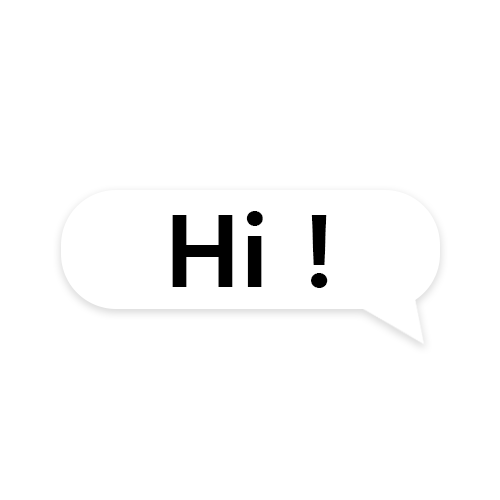
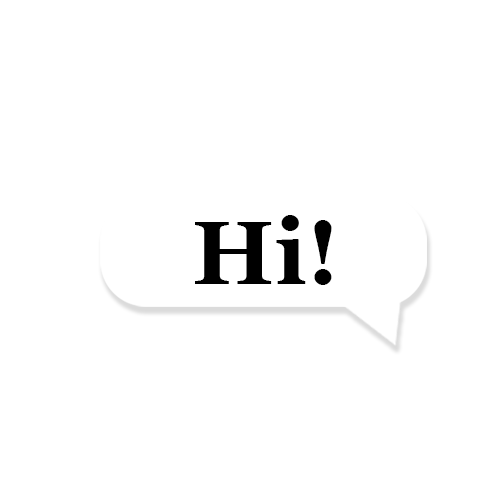
포트폴리오

Changed region(s): [[0.18, 0.42, 0.69, 0.63], [0.69, 0.48, 0.87, 0.72]]

diff --git a/html/portfoilo_2.html b/html/portfoilo_2.html
@@ -122,7 +122,7 @@
                         <h2>Contact</h2>
                         <div class="contact_1">
                             <p>010-8610-2041</p>
-                            <p>woozu5959@naver.com</p>
+                            <p class="font">woozu5959@naver.com</p>
                         </div>
                     </div>
                     <div class="edu">
@@ -191,7 +191,8 @@
                             <div class="page">
                                 <h2>Page</h2>
                                 <div class="page_1">
-                                    <p>Main + Sub (제작중)</p>
+                                    <p>Main + Sub</p>
+                                    <p class="font">(제작중)</p>
                                 </div>
                             </div>
                             <div class="tool">
@@ -205,10 +206,10 @@
                                     <!--소스 파악해서 정확하게 뭐 사용했는데 작성하기-->
                                 </div>
                             </div>
-                            <button class="btn btn_color"  type="button">
+                            <button class="btn btn_color"  onclick="window.open('https://www.figma.com/file/dBQ8xh7YiocAA0Mwe5X9iM/dokdo-site?node-id=0%3A1&t=VPZsr9GXAxnfmwRx-0')" type="button">
                                 PROTOTYPE
                             </button>
-                            <button class="btn btn_color" onclick= "window.open('https://woozu59.github.io/cobi_ro/html/dokdo.html')" type="button">
+                            <button class="btn btn_color" onclick="window.open('https://woozu59.github.io/cobi_ro/html/dokdo.html')" type="button">
                                 PUBLISHING
                             </button>
                         </div>
@@ -246,11 +247,11 @@
                         </div>
                     </div>
                     <div class="md_bt">
-                        <a href="#" class="figma">
+                        <a href="https://www.figma.com/file/dBQ8xh7YiocAA0Mwe5X9iM/dokdo-site?node-id=0%3A1&t=VPZsr9GXAxnfmwRx-0" class="figma" target="_blank">
                             <img src="../img/icon/figma.svg" class="figma_img" alt="피그마">
                             <p>Figma</p>
                         </a>
-                        <a href="#" class="mobile">
+                        <a href="https://woozu59.github.io/cobi_ro/html/dokdo.html" class="mobile" target="_blank">
                             <img src="../img/icon/mobile-screen-button-solid.svg" class="mobile_img" alt="모바일버전">
                             <p>Publishing</p>
                         </a>
@@ -301,7 +302,7 @@
                                     <p>Javascript</p>
                                 </div>
                             </div>
-                            <button class="btn btn_color" type="button">
+                            <button class="btn btn_color" onclick="window.open('https://www.figma.com/file/J7OVs8a6AmSncxwCajcPnG/Untitled?t=VPZsr9GXAxnfmwRx-0')" type="button">
                                 PROTOTYPE
                             </button>
                             <button class="btn btn_color" onclick="window.open('https://woozu59.github.io/cobi_ro/html/lush.html')" type="button">
@@ -339,11 +340,11 @@
                         </div>
                     </div>
                     <div class="md_bt">
-                        <a href="#" class="figma">
+                        <a href="https://www.figma.com/file/J7OVs8a6AmSncxwCajcPnG/Untitled?t=VPZsr9GXAxnfmwRx-0" class="figma" target="_blank">
                             <img src="../img/icon/figma.svg" class="figma_img" alt="피그마">
                             <p>Figma</p>
                         </a>
-                        <a href="#" class="mobile">
+                        <a href="https://woozu59.github.io/cobi_ro/html/lush.html" class="mobile" target="_blank">
                             <img src="../img/icon/mobile-screen-button-solid.svg" class="mobile_img" alt="모바일버전">
                             <p>Publishing</p>
                         </a>

diff --git a/css/portfolio2.css b/css/portfolio2.css
@@ -420,7 +420,10 @@ h1.tt_empty {
 }
 .contact_1 p, .edu_1 p, .licen_1 p, ul.skill_1 p {font-size: 1.2rem;}
 .contact_1 p, .edu_1 p, .licen_1 p{margin: 0 0 10px 0;}
-
+.contact_1 .font {
+    font-family: var(--english-font);
+    font-weight: 600;
+}
 ul.skill_1 {
     font-family: var(--english-font);
     display: flex;
@@ -495,6 +498,7 @@ img.pc {
 .inform {
     width: 60%;
     margin-left: 2%;
+    color: #313131;
 }
 .inform h1 {
     text-align: center;
@@ -515,11 +519,19 @@ ul.inform_hashtag {
     margin: 30px 0 0 0;
 }
 
+
 .type h2, .page h2, .tool h2{
     margin-right: 20px;
     font-family: var(--english-font);
 }
-.type_1 p, .page_1 p, .tool_1 p{font-size: 1.2rem;}
+.page_1 {display: flex;}
+.type_1 p, .page_1 p, .tool_1 p{
+    font-size: 1.2rem;
+    font-weight: 600;
+}
+
+.page_1 p{font-family: var(--english-font);}
+.page_1 .font{font-family: 'Noto Sans KR', sans-serif;}
 
 .tool_1{
     display: flex;
@@ -617,10 +629,10 @@ footer .memoji {
     
 }
 .speech_bubble img.hand{
-    width: 50px;
-    height: 50px;
+    width: 45px;
+    height: 45px;
     position: relative;
-    top: 37%;
+    top: 35%;
     left: -36%;
     transform-origin: bottom right;
     animation: shake 1s 0.5s infinite;

diff --git a/css/portfoilomb.css b/css/portfoilomb.css
@@ -1,6 +1,8 @@
 @charset "UTF-8";
 
-body{min-width: 320px;}
+body{
+    min-width: 320px;
+}
 
 header {height: 50px;}
 header.on {height: 50px;}
@@ -54,7 +56,12 @@ i{font-size: 25px;}
 
 
 /*page_1st*/
-.home > img {top: 270px;}
+.home > img {
+    top: 270px;
+    width: 50%;
+    height: 20%;
+    left: 0;
+}
 
 .text_wrap.bar {min-width: 320px;}
 .text_wrap h2{font-size: 1.5rem;}
@@ -116,7 +123,7 @@ ul.skill_1 {
 }
 ul.skill_1 li {
     margin-bottom: 2%;
-    font-size: 1rem;
+    font-size: 0.9rem;
 }
 .about_right button {display: none;}
 
@@ -192,6 +199,7 @@ ul.inform_hashtag {
     font-family: var(--english-font);
     left: 50%;
     transform: translate(-50%,-50%);
+    color: #313131;
 }
 .md_title {
     width: 100%;
@@ -254,7 +262,7 @@ ul.tool_list li{font-size: 0.9rem;}
 .figma > p,
 .mobile > p {
     height: 100%;
-    line-height: 75px;
+    line-height: 70px;
     font-size: 18px;
     margin-left: 5%;
 }
@@ -274,10 +282,10 @@ footer img.ft_cloud1 {top: -160px;}
     height: 70%;
 }
 .speech_bubble img.hand {
-    width: 13%;
-    height: 13%;
-    top: 30%;
-    left: -29%;
+    width: 15%;
+    height: 15%;
+    top: 26%;
+    left: -30%;
 }
 .foot_text {
     font-size: 0.8rem;

diff --git a/js/portfoilo_2.js b/js/portfoilo_2.js
@@ -43,18 +43,23 @@ $(function (){
 
     $("#dokdo_bt").click(function(){
         $("#dokdo_md").fadeIn(300);
+        document.body.style.overflow = "hidden";
     });
 
     $(".close_bt").click(function(){
         $("#dokdo_md, #lush_md").fadeOut(300);
+        document.body.style.overflow = "unset";
     });
-    
+
     $("#lush_bt").click(function(){
         $("#lush_md").fadeIn(300);
+        document.body.style.overflow = "hidden";
     });
     
 
+    
 });
+
 
 
 
